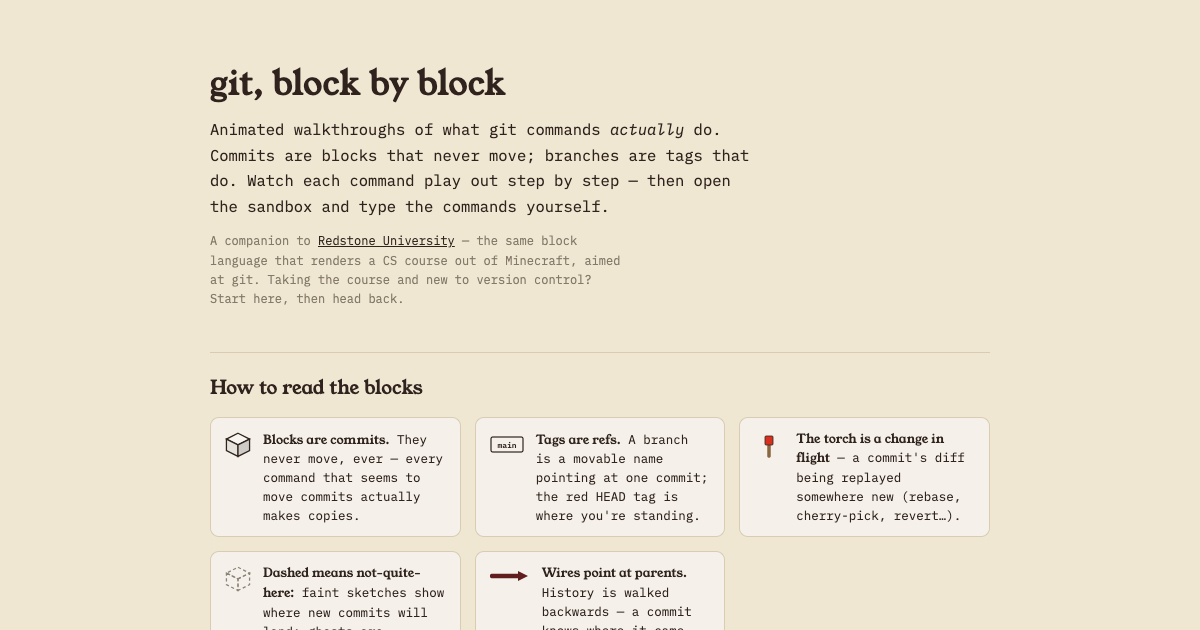
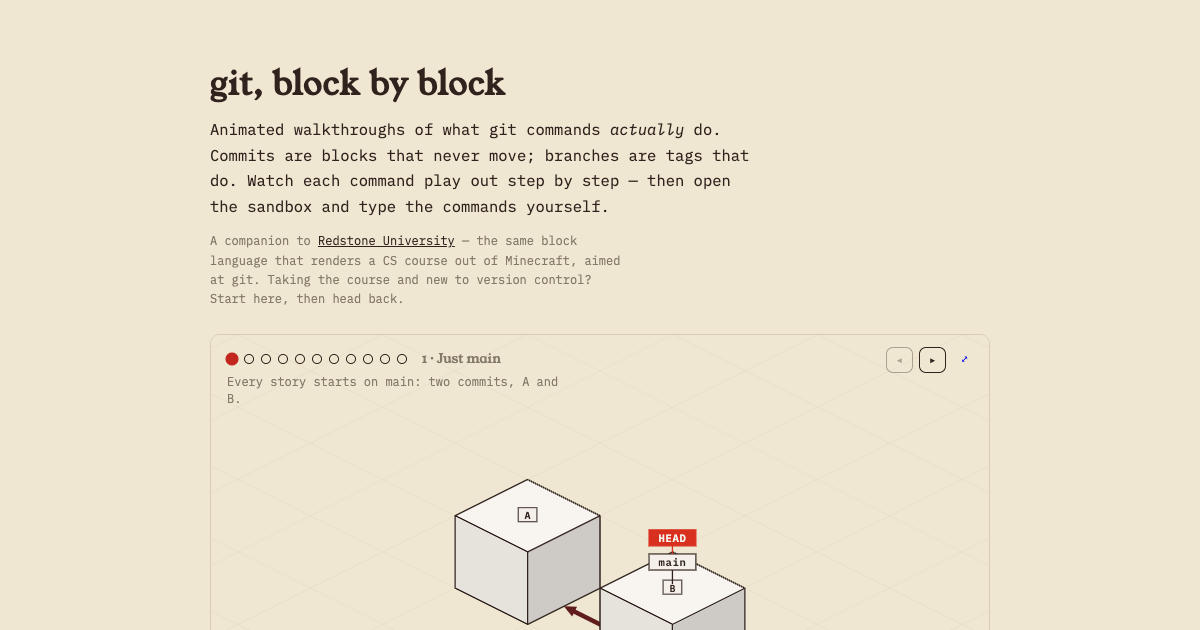
landing: live looping hero, mini-terminal sandbox card, reordered flow
The front page now demos the product: rebase plays itself in an embedded
loop under the hero; start-here and the sandbox card (with a Human++
terminal teaser) move above the grammar key; fresh OG image.

diff --git a/index.html b/index.html
@@ -34,20 +34,24 @@
   .sand{display:flex;gap:16px;align-items:center;background:var(--face);border:1px solid var(--rule);border-radius:10px;padding:16px 18px;margin-top:8px}
   .sand .go{flex:none}
   .foot2{margin-top:48px;padding-top:14px;border-top:1px solid var(--rule);font-size:10.5px;color:var(--ink-2)}
+  .hero{margin:26px 0 8px}
+  .hero iframe{width:100%;height:440px;border:1px solid var(--rule);border-radius:10px;background:var(--paper);display:block}
+  .hero figcaption{font-size:11px;color:var(--ink-2);margin-top:7px;text-align:center}
+  .hero figcaption a{color:var(--ink-2)}
+  .sand{align-items:flex-start}
+  .minidemo{background:#292929;border:1px solid #3E3E3C;border-radius:8px;padding:10px 13px;font-size:11.5px;line-height:1.6;white-space:pre-wrap}
+  a.ctl{display:inline-flex;align-items:center;padding:7px 14px;border:1.2px solid var(--ink);border-radius:7px;background:var(--ink);color:var(--paper);font-size:12.5px}
+  a.ctl:hover{opacity:.9}
 </style>
 <div class="home">
   <h1>git, block by block</h1>
   <p class="big">Animated walkthroughs of what git commands <em>actually</em> do. Commits are blocks that never move; branches are tags that do. Watch each command play out step by step — then open the sandbox and type the commands yourself.</p>
   <p class="ru">A companion to <a href="https://redstone.university">Redstone University</a> — the same block language that renders a CS course out of Minecraft, aimed at git. Taking the course and new to version control? Start here, then head back.</p>
 
-  <h2>How to read the blocks</h2>
-  <div class="key">
-    <div class="k"><span data-cube="paper"></span><span><b>Blocks are commits.</b> They never move, ever — every command that seems to move commits actually makes copies.</span></div>
-    <div class="k"><svg width="34" height="26"><rect x="1" y="5" width="32" height="15" rx="2" fill="#F5F1EA" stroke="#30231E" stroke-width="1.2"/><text x="17" y="16" text-anchor="middle" font-family="IBM Plex Mono,monospace" font-size="8" font-weight="600" fill="#30231E">main</text></svg><span><b>Tags are refs.</b> A branch is a movable name pointing at one commit; the red HEAD tag is where you're standing.</span></div>
-    <div class="k"><svg width="30" height="28"><line x1="15" y1="14" x2="15" y2="24" stroke="#8A6740" stroke-width="3.5" stroke-linecap="round"/><rect x="11" y="4" width="8" height="9" rx="1.5" fill="#D92F1F" stroke="#30231E" stroke-width=".8"/></svg><span><b>The torch is a change in flight</b> — a commit's diff being replayed somewhere new (rebase, cherry-pick, revert…).</span></div>
-    <div class="k"><span data-ghost></span><span><b>Dashed means not-quite-here:</b> faint sketches show where new commits will land; ghosts are abandoned commits the reflog still remembers.</span></div>
-    <div class="k"><svg width="40" height="20"><line x1="2" y1="10" x2="30" y2="10" stroke="#611D1D" stroke-width="4.5" stroke-linecap="round"/><polygon points="38,10 28,5 28,15" fill="#611D1D"/></svg><span><b>Wires point at parents.</b> History is walked backwards — a commit knows where it came from, never what comes next.</span></div>
-  </div>
+  <figure class="hero">
+    <iframe src="rebase.html?embed&loop" title="git rebase, playing itself" loading="eager"></iframe>
+    <figcaption>live — <a href="rebase.html">rebase</a> playing itself on a loop. every animation on this site runs like this.</figcaption>
+  </figure>
 
   <h2>Start here</h2>
   <ol class="path">
@@ -60,8 +64,20 @@
 
   <h2>The sandbox</h2>
   <div class="sand">
-    <span style="font-size:12.5px;line-height:1.55;max-width:52ch">An open-ended repo with a real terminal: <code>commit</code>, <code>branch</code>, <code>merge</code>, <code>rebase</code>, <code>cherry-pick</code>, <code>reset</code>, <code>revert</code>… every command animates the blocks above it, and <code>share</code> copies a link that replays your whole session for someone else.</span>
+    <div style="flex:1;min-width:0">
+      <div class="minidemo"><div><span class="tk-p">$</span> <span class="tk-g">git</span> <span class="tk-w">switch</span> <span class="tk-f">-c</span> <span class="tk-w">feature</span></div><div class="tk-o">Switched to a new branch 'feature'</div><div><span class="tk-p">$</span> <span class="tk-g">git</span> <span class="tk-w">rebase</span> <span class="tk-w">main</span><span class="tk-cur">▌</span></div></div>
+      <span style="display:block;font-size:12.5px;line-height:1.55;margin-top:10px">An open-ended repo with a real terminal — every command animates the blocks above it, and <code>share</code> copies a link that <em>replays your whole session, typed out, on a loop</em>.</span>
+    </div>
     <a class="ctl primary go" href="playground.html" style="text-decoration:none">Open it ▸</a>
+  </div>
+
+  <h2>How to read the blocks</h2>
+  <div class="key">
+    <div class="k"><span data-cube="paper"></span><span><b>Blocks are commits.</b> They never move, ever — every command that seems to move commits actually makes copies.</span></div>
+    <div class="k"><svg width="34" height="26"><rect x="1" y="5" width="32" height="15" rx="2" fill="#F5F1EA" stroke="#30231E" stroke-width="1.2"/><text x="17" y="16" text-anchor="middle" font-family="IBM Plex Mono,monospace" font-size="8" font-weight="600" fill="#30231E">main</text></svg><span><b>Tags are refs.</b> A branch is a movable name pointing at one commit; the red HEAD tag is where you're standing.</span></div>
+    <div class="k"><svg width="30" height="28"><line x1="15" y1="14" x2="15" y2="24" stroke="#8A6740" stroke-width="3.5" stroke-linecap="round"/><rect x="11" y="4" width="8" height="9" rx="1.5" fill="#D92F1F" stroke="#30231E" stroke-width=".8"/></svg><span><b>The torch is a change in flight</b> — a commit's diff being replayed somewhere new (rebase, cherry-pick, revert…).</span></div>
+    <div class="k"><span data-ghost></span><span><b>Dashed means not-quite-here:</b> faint sketches show where new commits will land; ghosts are abandoned commits the reflog still remembers.</span></div>
+    <div class="k"><svg width="40" height="20"><line x1="2" y1="10" x2="30" y2="10" stroke="#611D1D" stroke-width="4.5" stroke-linecap="round"/><polygon points="38,10 28,5 28,15" fill="#611D1D"/></svg><span><b>Wires point at parents.</b> History is walked backwards — a commit knows where it came from, never what comes next.</span></div>
   </div>
 
   <h2>All the animations</h2>
